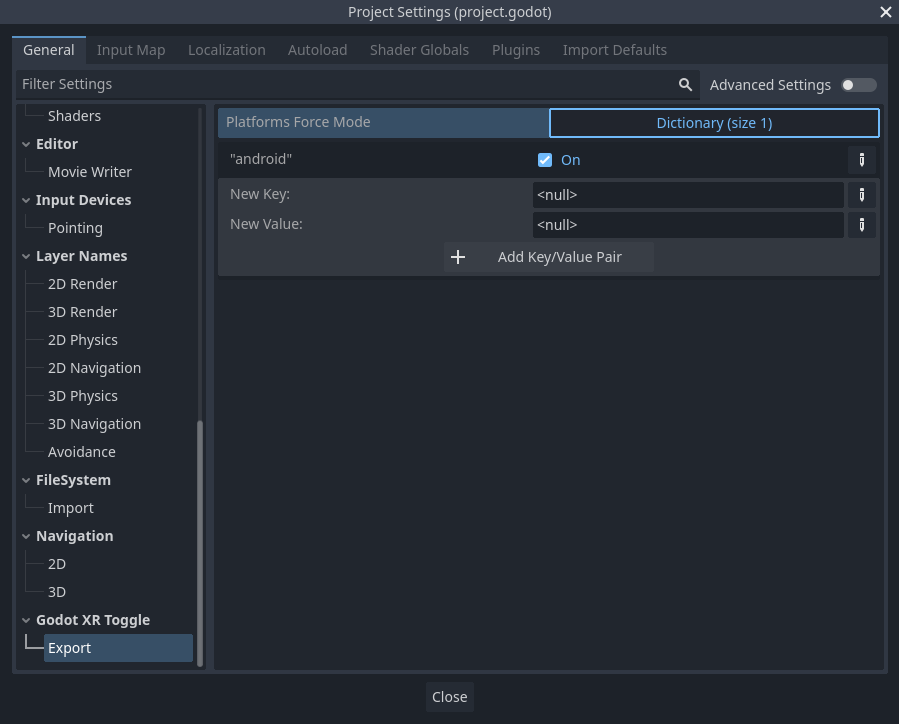
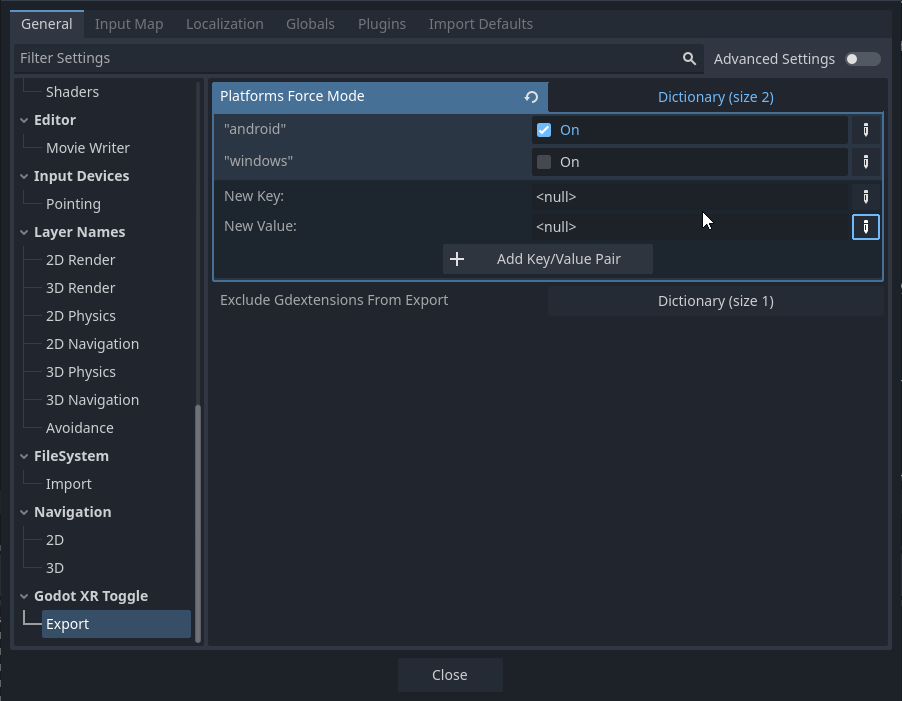
Adding GDExtension exclusion capabilities

diff --git a/README.md b/README.md
@@ -2,6 +2,8 @@
 
 The Godot XR Toggle is a simple toggle to run with VR enabled or not, from the editor.
 
+It is recommended to keep OpenXR enabled in the project settings (`xr/openxr/enabled`) and use the toggle to enable/disable it dynamically.
+
 This repository also includes an example of a project that can run VR and non-VR, thought the main focus is the XR Toggle plugin.
 
 
@@ -22,3 +24,13 @@ After enabling the plugin, you'll see the XR Toggle on the top right of the scre
 You can force XR being enabled/disabled when exporting for certain platforms. This is useful because when you are in the editor, you could have the XR Toggle disabled, but when exporting for the Quest (android) you want to have OpenXR always enabled, so you can add the platform to the "Platforms Force Mode" section like this:
 
 ![plugin-settings](./assets/screenshots/plugin_settings.png)
+
+In that screenshot, when exporting for `android`, OpenXR will be enabled regardless of the current setting of the editor. If the checkbox was unchecked (like for `windows`), then it would be disabled regardless of the editor setting.
+
+## Exclude GDExtensions when exporting
+
+If you include the [Godot OpenXR Vendors](https://github.com/GodotVR/godot_openxr_vendors/) when you export for Windows, for example, and then try to run the game with `--xr-mode on`, the game will fail to start. Also, the vendors are not needed on desktop platforms, so it makes sense to exclude them from the export.
+
+![gdextension_exclude_export](./assets/screenshots/gdextension_exclude_export.png)
+
+In the screenshot you can see that for the platform `windows` I added an `Array` with two `String` entries. One for `godotopenxrvendors` which is the folder that contains the Godot OpenXR Vendors and one example "ANOTHER_GD_EXTENSION".
